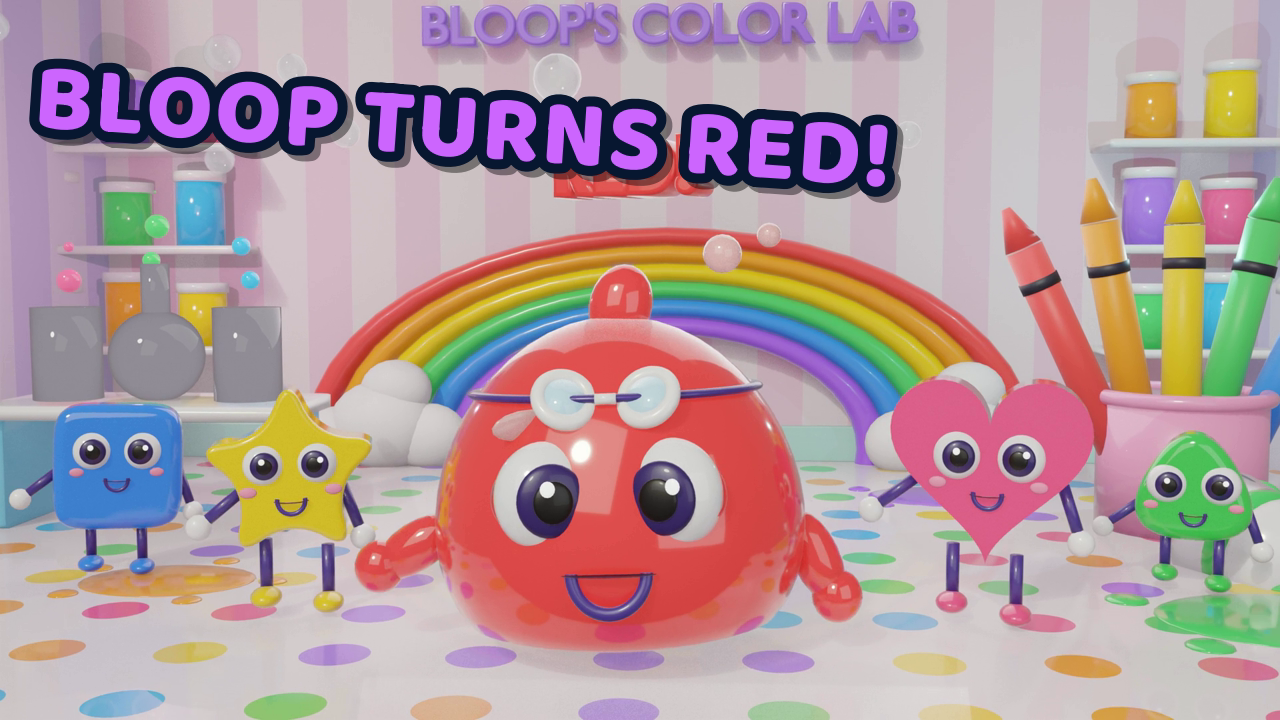
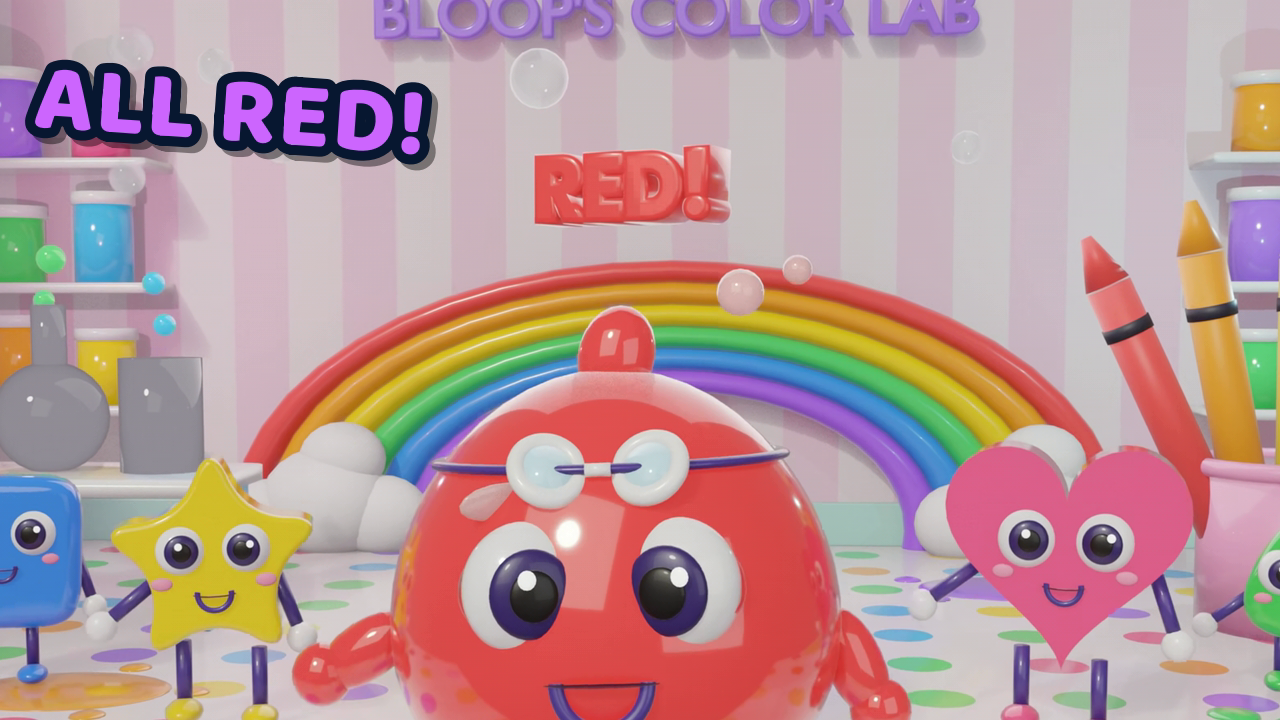
Packaging pass (yt-package): new 3-word thumbnails that don't repeat titles for pending Zoo/Bloop/Gizmo episodes; thumb_text rule for upcoming specs; timing checker + rethumb tools
Claude-Session: https://claude.ai/code/session_014CFVfVuQKcnZwKkabBsmrF

diff --git a/studio/zoo3d/rethumb.py b/studio/zoo3d/rethumb.py
@@ -1,0 +1,27 @@
+"""Rebuild a thumbnail from the finished repo MP4 with new 3-word text (same style as finish.py)."""
+import json, subprocess, sys, os
+sys.path.insert(0, '/root/zoo/blender/zoo3d'); import finish as F
+REPO = '/home/claude/animated-zoo-media'
+def rethumb(sid, words, folder):
+    job = json.load(open(f'/root/zoo/blender/zoo3d/jobs/{sid}.json')) if os.path.exists(f'/root/zoo/blender/zoo3d/jobs/{sid}.json') else {}
+    tf = job.get('thumb_frame', 120) / 24
+    mp4 = os.path.join(REPO, folder if folder != '.' else '', f'{sid}.mp4')
+    ch = job.get('channel', 'zoo')
+    tsub = f'/tmp/{sid}_thumb.ass'
+    open(tsub, 'w').write(f"""[Script Info]
+PlayResX: 1280
+PlayResY: 720
+[V4+ Styles]
+Format: Name, Fontname, Fontsize, PrimaryColour, SecondaryColour, OutlineColour, BackColour, Bold, Italic, Underline, StrikeOut, ScaleX, ScaleY, Spacing, Angle, BorderStyle, Outline, Shadow, Alignment, MarginL, MarginR, MarginV, Encoding
+Style: T,Baloo 2 ExtraBold,150,{F.HILITE.get(ch, '&H0000D7FF&')},&H00FFFFFF&,&H00301808&,&H96000000&,-1,0,0,0,100,100,2,-4,1,10,6,7,40,40,26,1
+[Events]
+Format: Layer, Start, End, Style, Name, MarginL, MarginR, MarginV, Effect, Text
+Dialogue: 0,0:00:00.00,0:00:10.00,T,,0,0,0,,{words}
+""")
+    dst = os.path.join(REPO, 'brand', folder if folder != '.' else 'zoo', f'thumb_{sid}.png')
+    subprocess.run(['ffmpeg', '-y', '-loglevel', 'error', '-ss', f'{tf:.2f}', '-i', mp4, '-frames:v', '1',
+                    '-vf', f'crop=iw*0.82:ih*0.82:(iw-ow)/2:ih*0.02,scale=1280:720,eq=saturation=1.15:contrast=1.05,subtitles={tsub}:fontsdir={F.FONT_DIR}', dst], check=True)
+    return dst
+if __name__ == '__main__':
+    for sid, words, folder in json.load(open(sys.argv[1])):
+        print(rethumb(sid, words, folder))

diff --git a/studio/zoo3d/check_timing.py b/studio/zoo3d/check_timing.py
@@ -1,0 +1,15 @@
+"""Flag lyric lines whose words weren't actually sung at that time (vs the transcription)."""
+import json, sys, re
+sys.path.insert(0, '/root/zoo/blender/zoo3d'); from timing_lib import norm
+t = json.load(open(sys.argv[1])); tx = json.load(open(sys.argv[2]))['words']
+bad = 0
+for l in t['lines']:
+    if l.get('extra'): continue
+    ws = [norm(w) for w in l['text'].split() if norm(w)]
+    near = {norm(x['w']) for x in tx if l['start'] - 1.5 <= x['start'] <= l['end'] + 1.5}
+    sc = sum(w in near for w in ws) / max(1, len(ws))
+    dur = l['end'] - l['start']
+    if sc < 0.6 or dur < 0.25 * len(ws):
+        bad += 1; print(f"  BAD {l['start']:6.1f}-{l['end']:6.1f} match={sc:.2f} {l['text'][:55]}")
+ext = [l for l in t['lines'] if l.get('extra')]
+print(f"{sys.argv[1].split('/')[-1]}: {bad} bad lines, {len(ext)} extra lines")

diff --git a/PLAYBOOK.md b/PLAYBOOK.md
@@ -197,3 +197,8 @@ Episodes uploaded before this rule (Nov 5–6 batch, 1080p H.264) stay as they a
 - Every channel keeps at least 3 days of episodes uploaded and scheduled in YouTube Studio ahead of today. Every production check uploads the soonest `to_upload` entries (within the ~20/24h account cap) until that buffer is met.
 - Format changes never empty a slot. New formats (2D/3D hybrid, new worlds, lessons) are tested on extra renders only; the classic 3D sing-along keeps rendering daily as the default. If a new-format episode is held or rejected, a classic episode takes that date (as zoo3d_ep06c did for Nov 11).
 - If a render fails or its timing is broken, re-render it or fill the slot with the next finished episode for that channel. A missing slot is worse than a late fix.
+
+## Packaging rules (yt-package check, Nov 9, 2026)
+- Thumbnail text: 3 words max and it must NOT repeat the title's words (the title says the topic, the thumbnail adds the hook: "ALL RED!", "STICK OR NOT?", "1 TO 10!"). Set `meta.thumb_text` that way in every new song spec; lint with `python3 /root/.claude/skills/yt-package/title.py --title "..." --thumb "..."`.
+- Custom thumbnails only show on Zoo, Bloop and Gizmo (phone-verified). To redo a thumbnail after finishing: `studio/zoo3d/rethumb.py` (crops out the burned-in lyrics).
+- Before every finish: `studio/zoo3d/check_timing.py <timing.json> <words_tx.json>`; skipped verses or garbled/wrong-fact singing → rebuild timing or re-sing; never publish a wrong fact.
